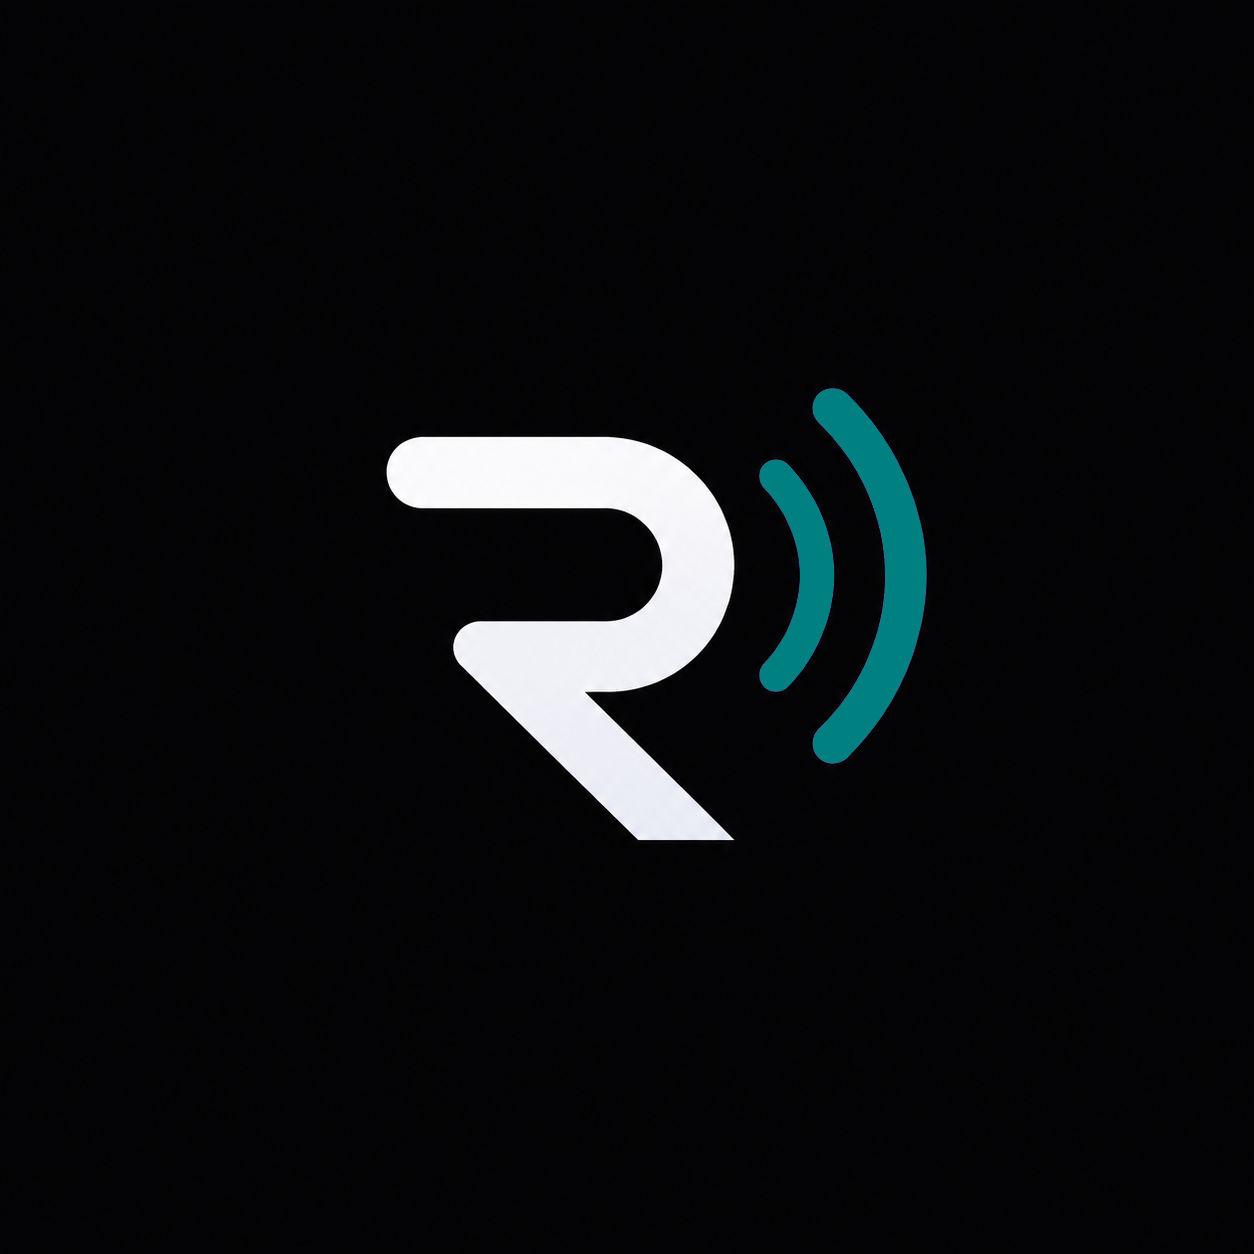
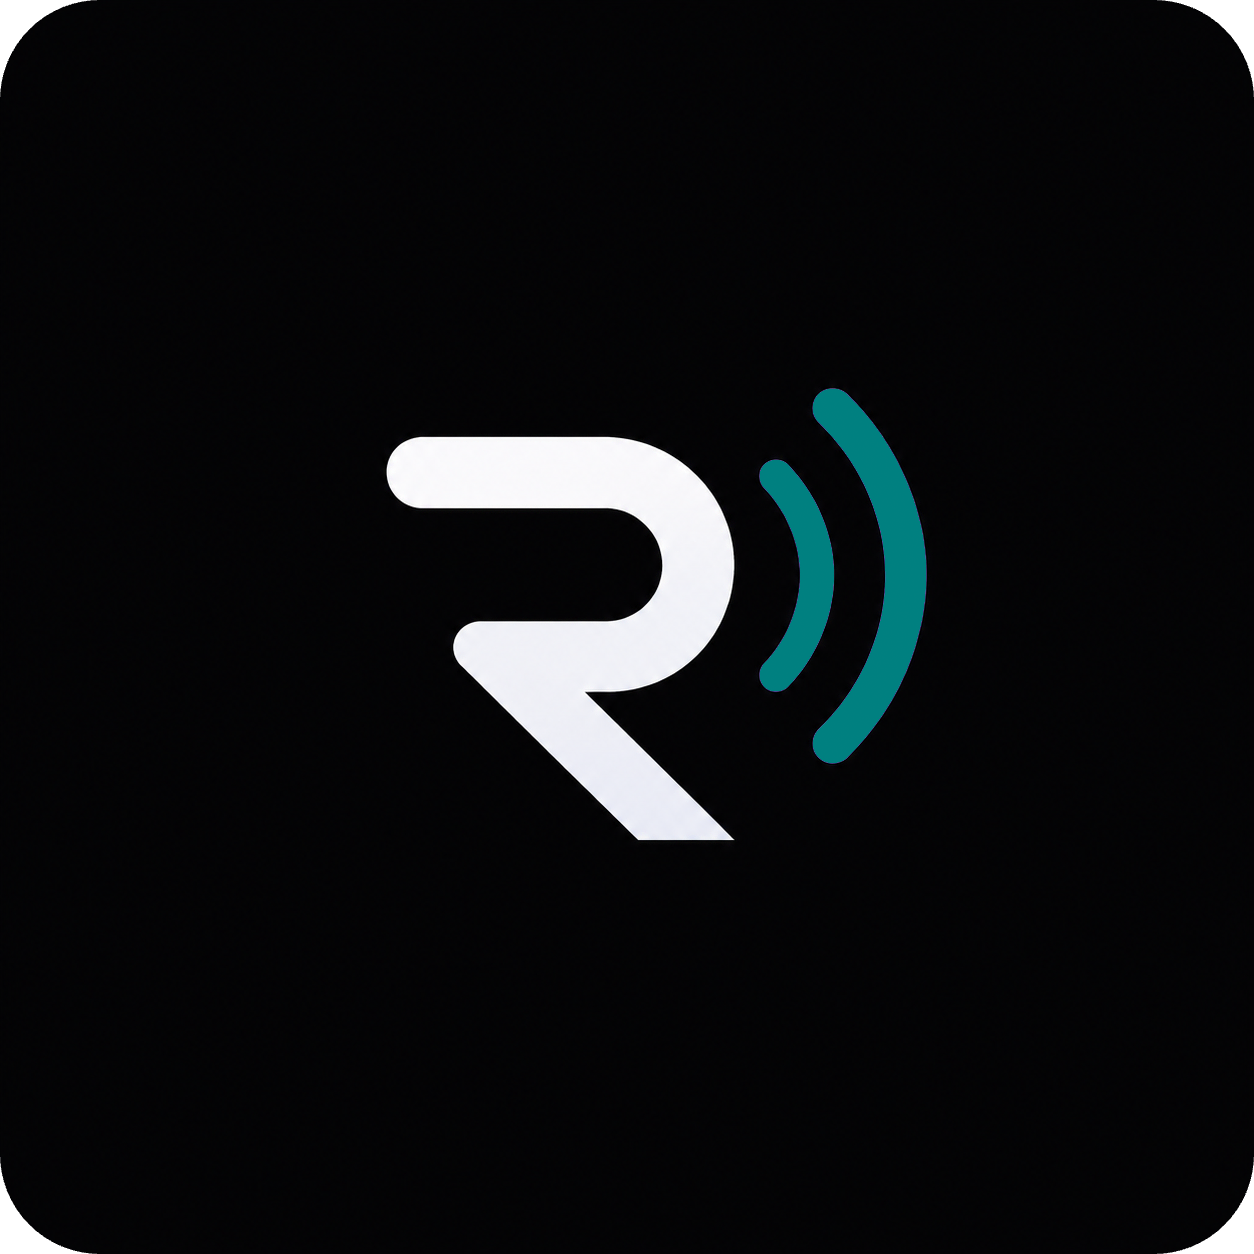
docs: perchance, perhaps, mayhaps? - charlie white

diff --git a/profile/README.md b/profile/README.md
@@ -1,5 +1,5 @@
 <p align="center">
-  <img src="https://raw.githubusercontent.com/RelaydMC/.github/main/assets/relayd.png" width="96" border-radius="14px" alt="Relayd" />
+  <img src="https://raw.githubusercontent.com/RelaydMC/.github/main/assets/relayd.png" width="96" alt="Relayd" />
 </p>
 
 <h1 align="center">Relayd</h1>